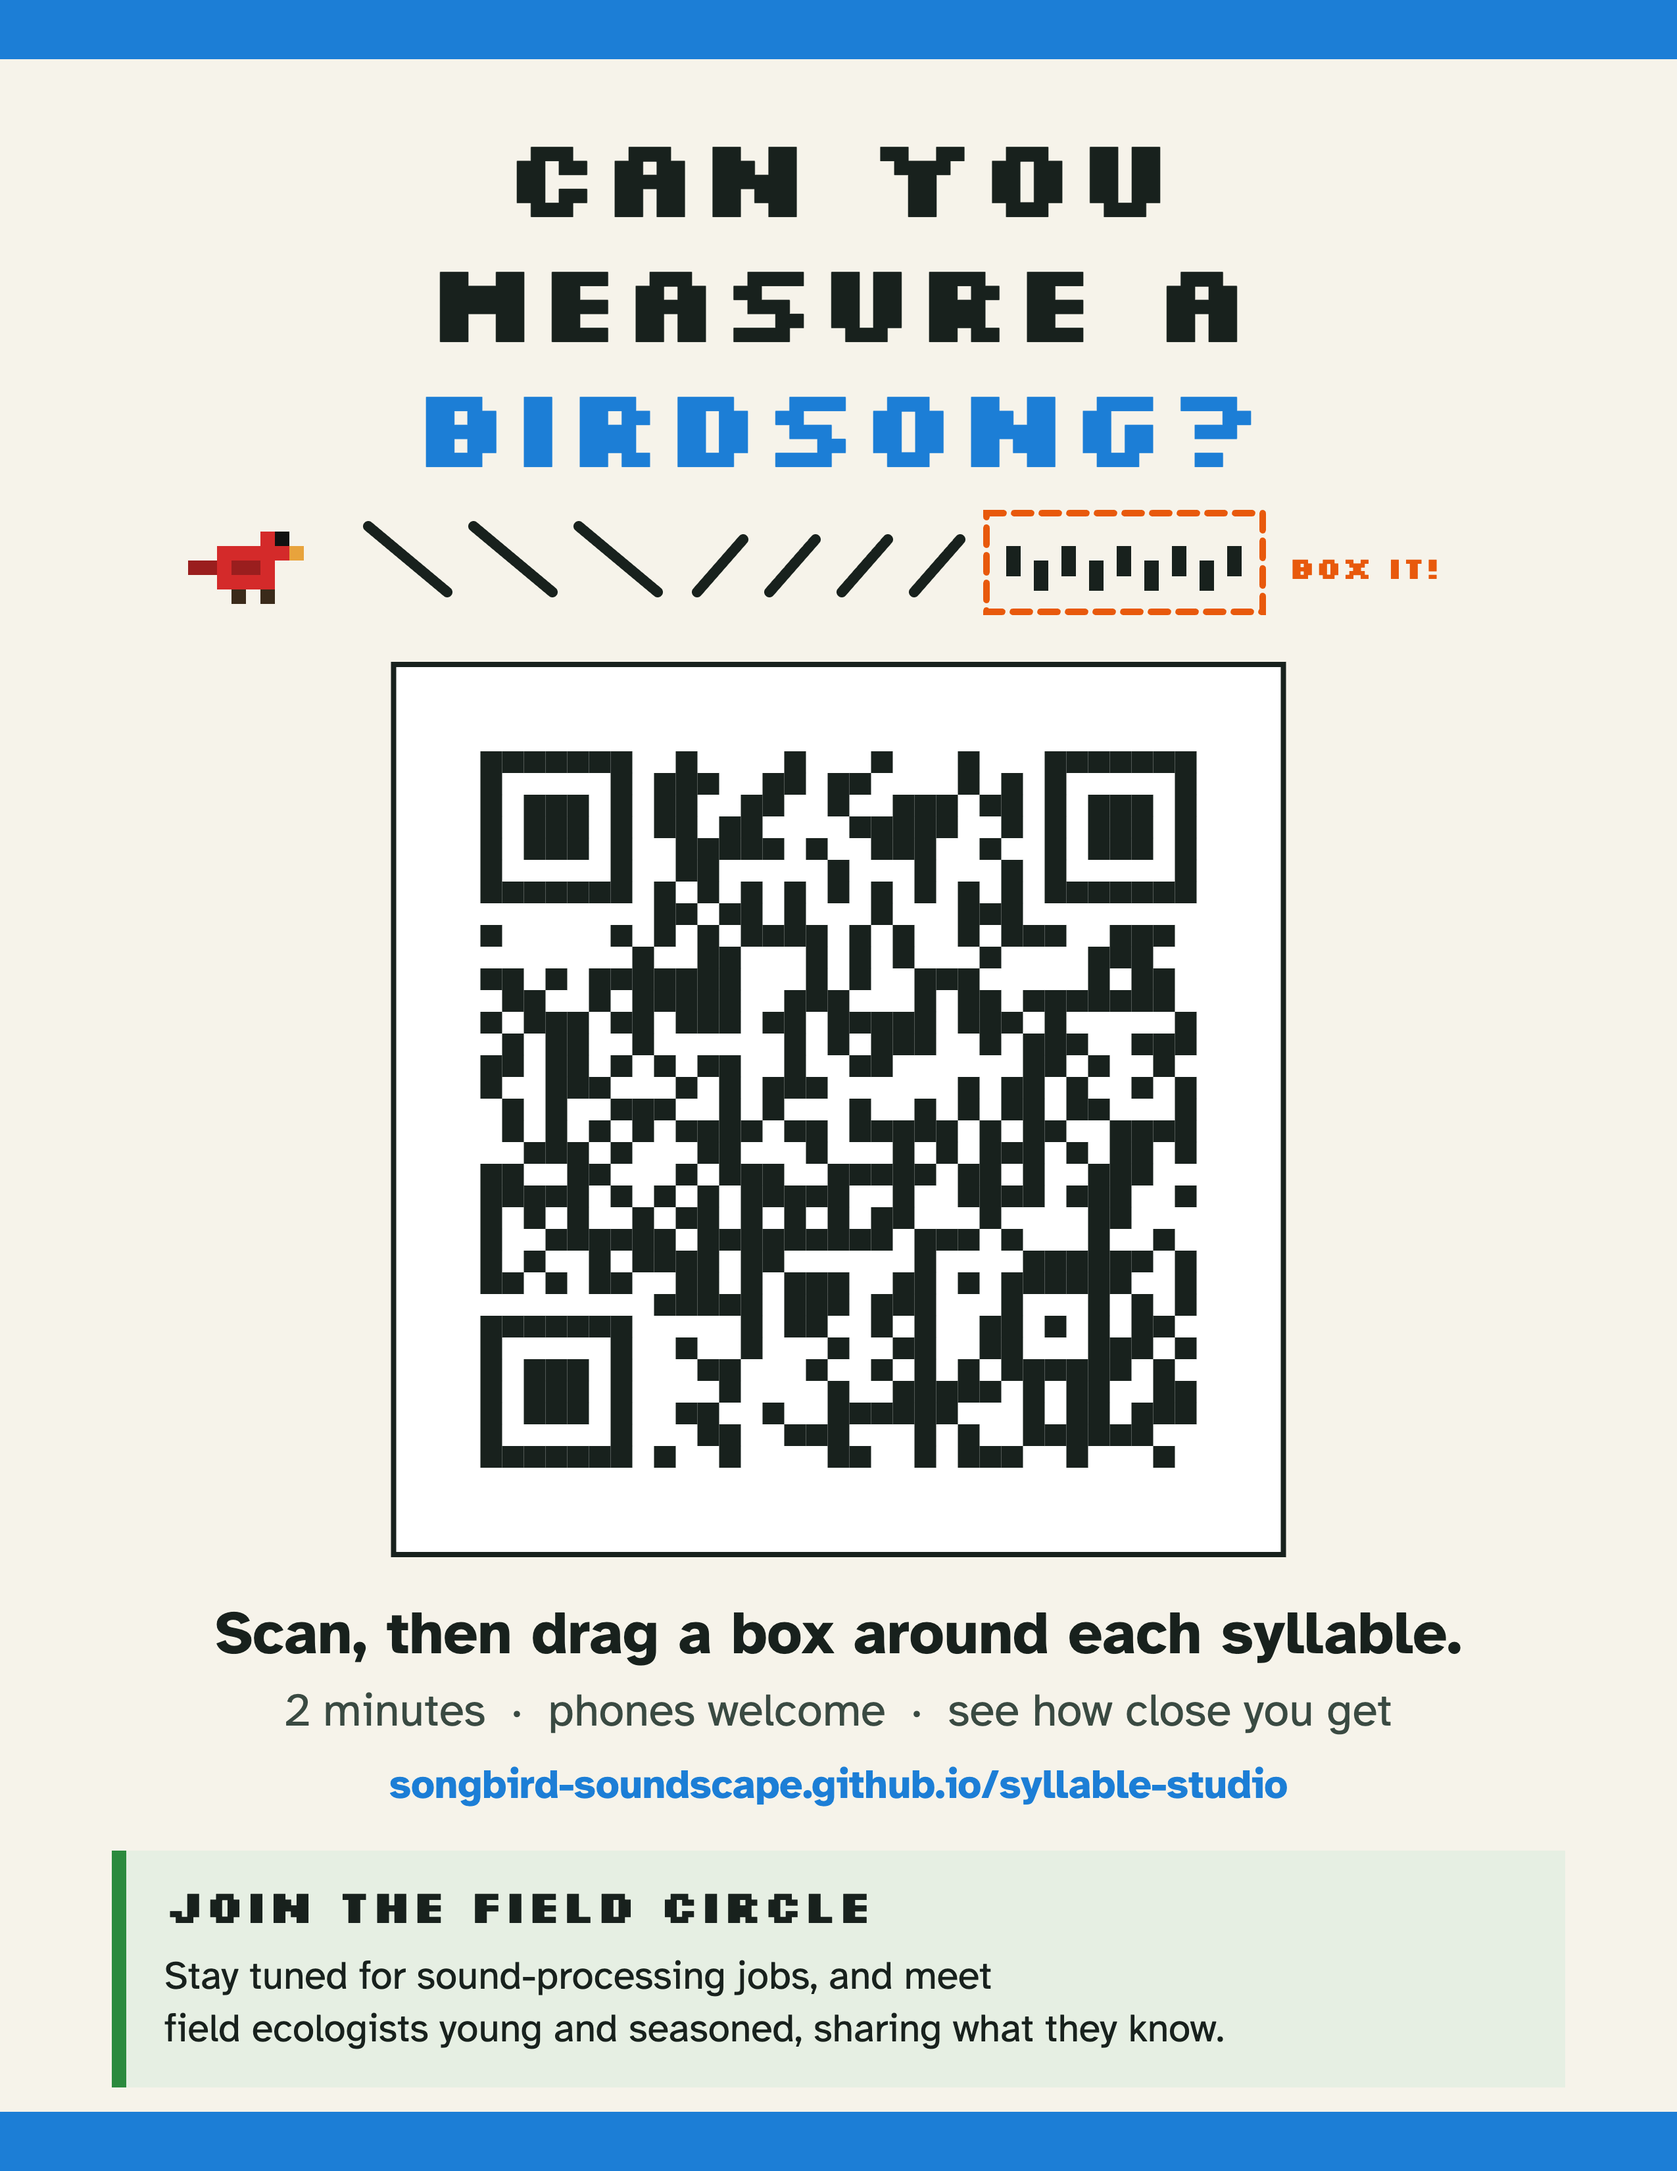
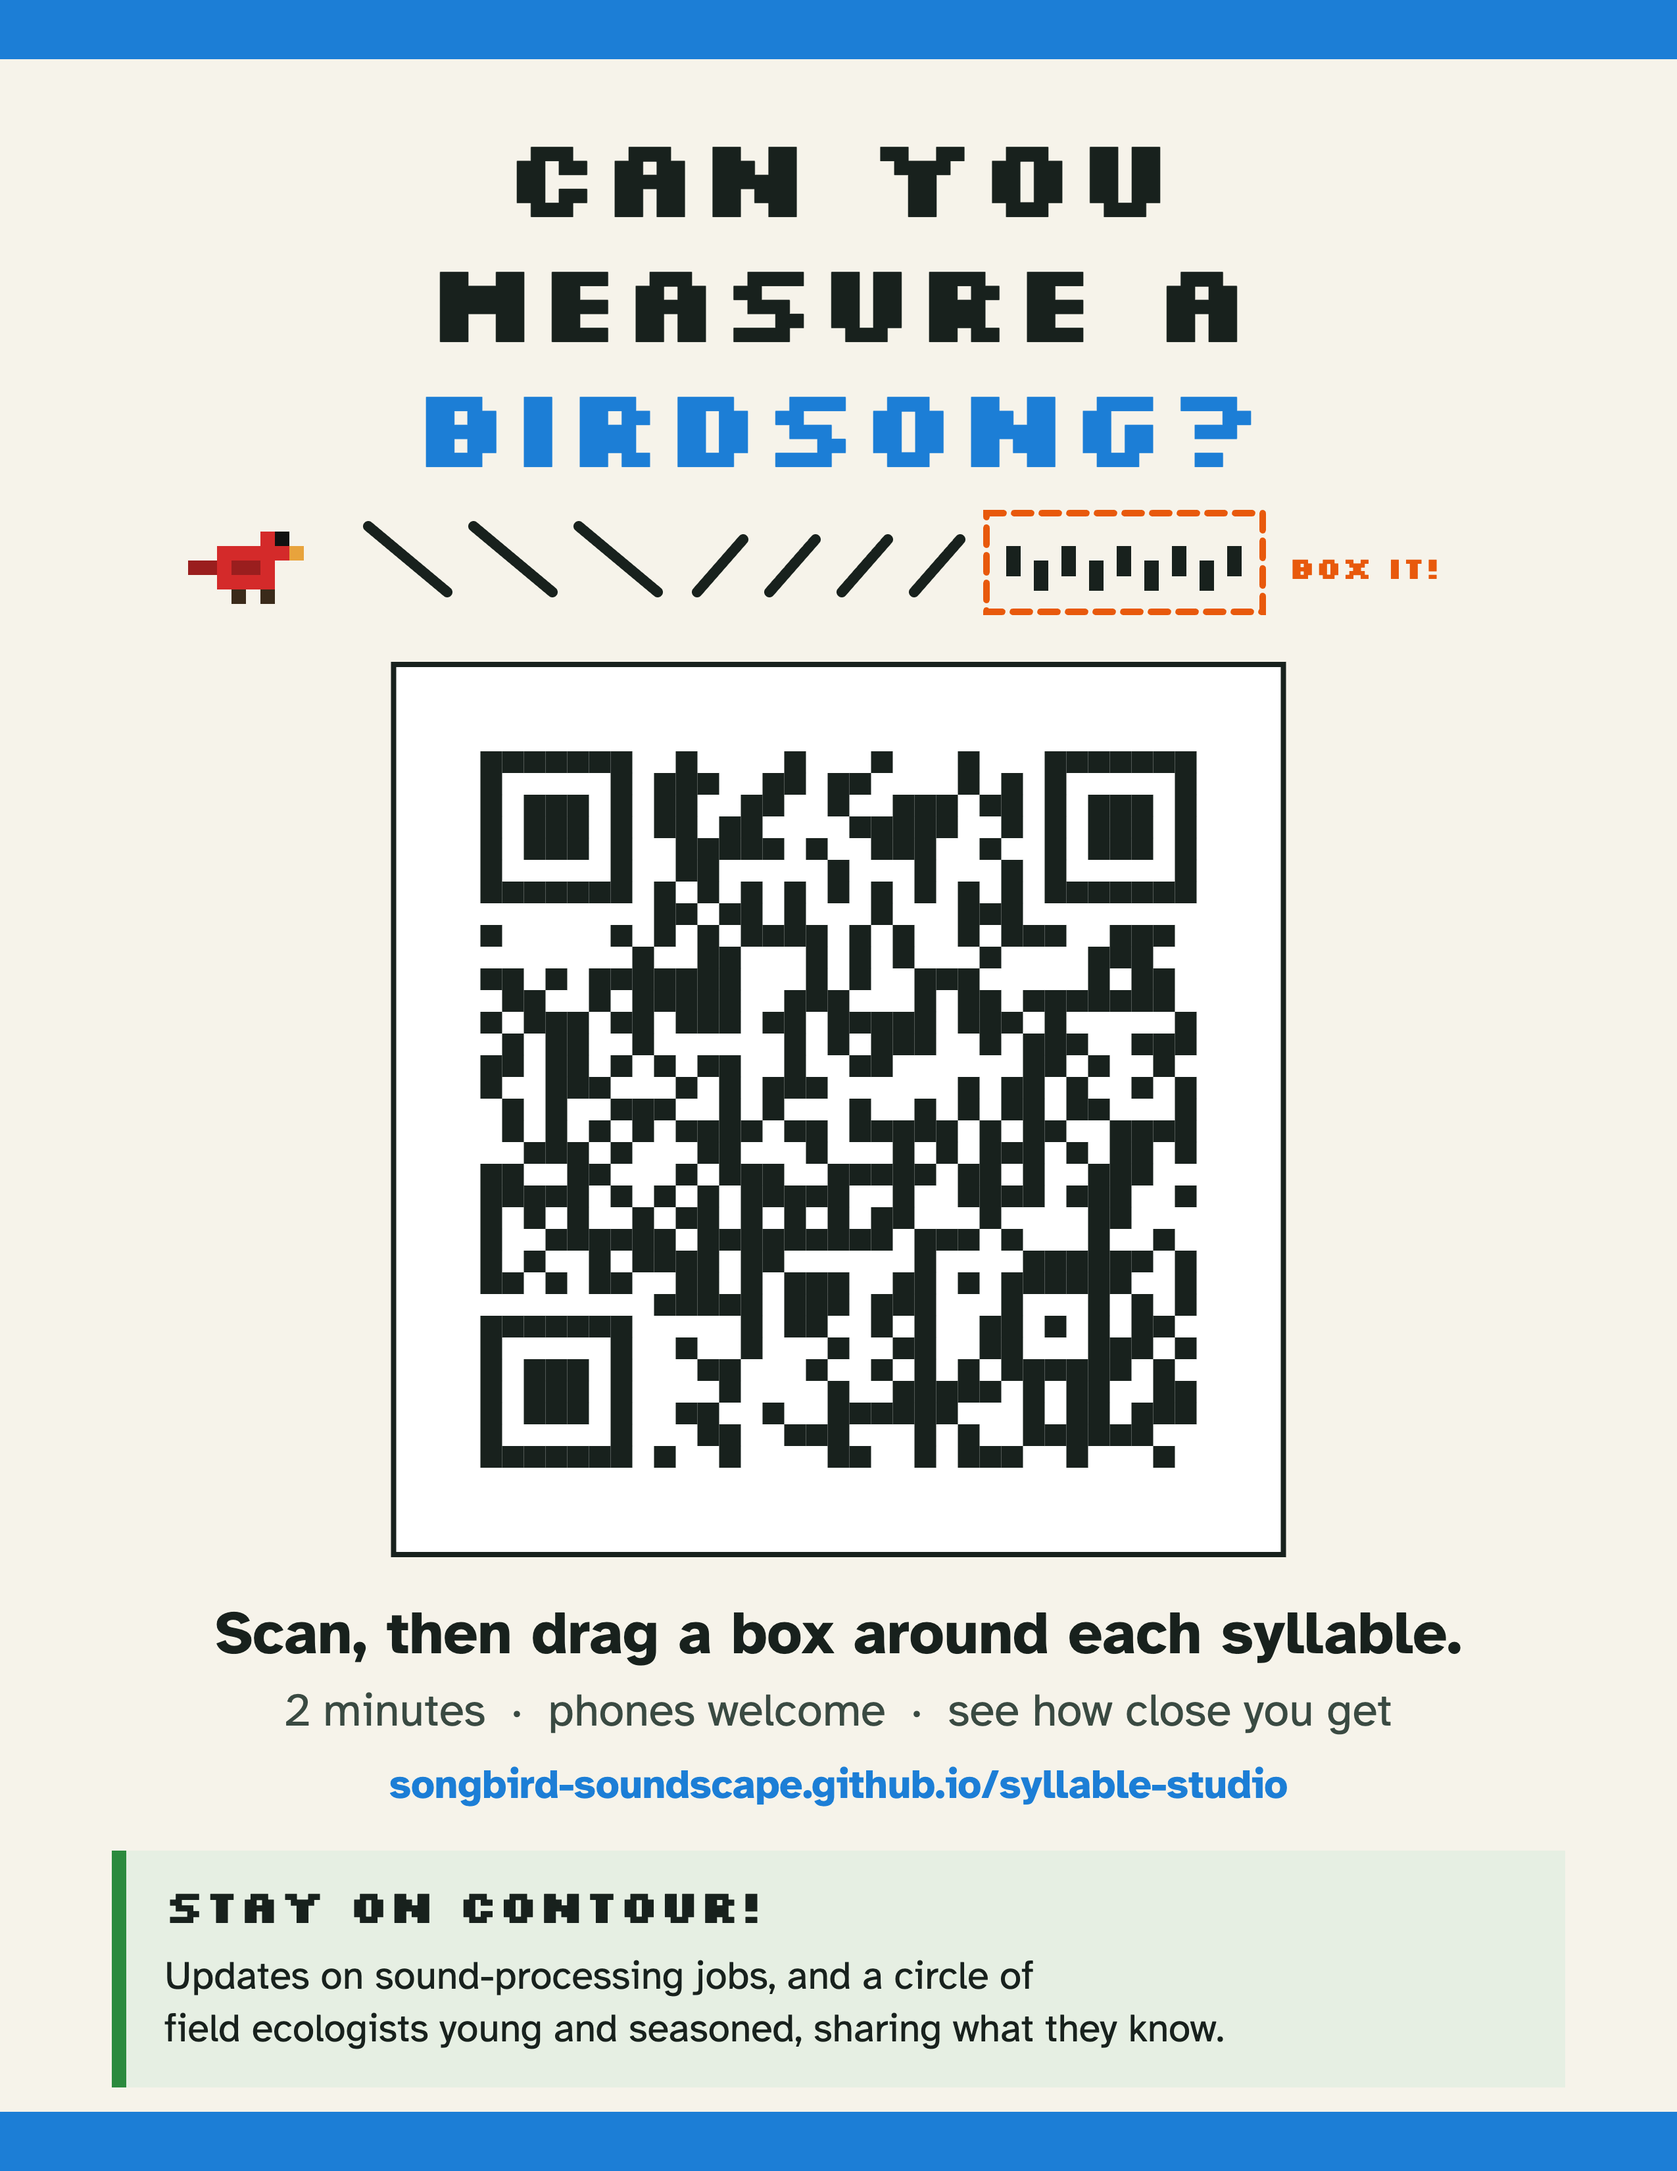
Stay on contour! tagline, and the quarter-sheet handout cards

Changed region(s): [[0.0929, 0.8739, 0.6196, 0.9364]]

diff --git a/cards.html b/cards.html
@@ -1,0 +1,70 @@
+<!doctype html>
+<html lang="en">
+<head>
+<meta charset="utf-8">
+<meta name="viewport" content="width=device-width, initial-scale=1">
+<title>Syllable Studio Cards</title>
+<link rel="preconnect" href="https://fonts.googleapis.com">
+<link rel="stylesheet" href="https://fonts.googleapis.com/css2?family=Silkscreen:wght@400;700&family=Atkinson+Hyperlegible:wght@400;700&display=swap">
+<style>
+:root { --bg: #e9ece6; }
+@media (prefers-color-scheme: dark) { :root:not([data-theme="light"]) { --bg: #151816; color-scheme: dark; } }
+:root[data-theme="dark"] { --bg: #151816; color-scheme: dark; }
+body { margin: 0; background: var(--bg); padding: 16px max(16px, env(safe-area-inset-left, 0px)); }
+canvas { display: block; width: min(100%, 680px); height: auto; margin: 0 auto; box-shadow: 0 2px 12px rgba(0,0,0,0.25); }
+@media print { @page { size: letter; margin: 0; } body { padding: 0; background: #fff; } canvas { width: 8.5in; height: 11in; box-shadow: none; } }
+</style>
+<script src="https://cdnjs.cloudflare.com/ajax/libs/qrcode-generator/1.4.4/qrcode.min.js"></script>
+</head>
+<body>
+<canvas id="sheet" width="2550" height="3300" role="img" aria-label="A letter sheet of four quarter-page cards (4.25 by 5.5 inches), each with a QR code to Syllable Studio"></canvas>
+<script>
+(() => {
+const URL_ = 'https://songbird-soundscape.github.io/syllable-studio/';
+const c = document.getElementById('sheet'), g = c.getContext('2d'), W = c.width, H = c.height, DPI = 300;
+const CW = 4.25 * DPI, CH = 5.5 * DPI, COLS = 2, ROWS = 2, X0 = 0, Y0 = 0;
+const qr = qrcode(0, 'M'); qr.addData(URL_); qr.make(); const n = qr.getModuleCount();
+function card(x, y) {
+  const P = 0.3 * DPI, cx = x + CW / 2;                     // keep everything 0.3 in from the cut edges
+  g.fillStyle = '#f6f3ea'; g.fillRect(x, y, CW, CH);
+  g.fillStyle = '#1c7ed6'; g.fillRect(x + P, y + P, CW - 2 * P, 22);
+  g.textAlign = 'center'; g.textBaseline = 'alphabetic';
+  g.fillStyle = '#18211d'; g.font = '700 76px Silkscreen'; g.fillText('CAN YOU', cx, y + P + 130); g.fillText('MEASURE A', cx, y + P + 215);
+  g.fillStyle = '#1c7ed6'; g.fillText('BIRDSONG?', cx, y + P + 300);
+  // the little cardinal, its song, and a box around the trill
+  const s = 11, bx = x + P + 40, by = y + P + 360;
+  g.fillStyle = '#9a1e1e'; g.fillRect(bx - 2 * s, by + s, 2 * s, s); g.fillStyle = '#d42a2a'; g.fillRect(bx, by, 4 * s, 3 * s); g.fillRect(bx + 3 * s, by - s, 2 * s, 2 * s);
+  g.fillStyle = '#111'; g.fillRect(bx + 4 * s, by - s, s, s); g.fillStyle = '#e8a33c'; g.fillRect(bx + 5 * s, by, s, s);
+  g.strokeStyle = '#18211d'; g.lineWidth = 9; g.lineCap = 'round';
+  [0, 1, 2].forEach(k => { const sx = bx + 120 + k * 75; g.beginPath(); g.moveTo(sx, by - 15); g.lineTo(sx + 45, by + 40); g.stroke(); });
+  const tx = bx + 360; g.strokeStyle = '#e8590c'; g.lineWidth = 6; g.setLineDash([16, 10]); g.strokeRect(tx, by - 30, 230, 90); g.setLineDash([]);
+  g.strokeStyle = '#18211d'; g.lineWidth = 9; for (let k = 0; k < 6; k++) { g.beginPath(); g.moveTo(tx + 25 + k * 36, by - 10 + (k % 2) * 14); g.lineTo(tx + 25 + k * 36, by + 40); g.stroke(); }
+  g.fillStyle = '#e8590c'; g.font = '700 30px Silkscreen'; g.textAlign = 'left'; g.fillText('BOX IT!', tx + 245, by + 28); g.textAlign = 'center';
+  // the QR, big
+  const cell = Math.floor(640 / (n + 6)), qs = cell * (n + 6), qx = Math.round(cx - qs / 2), qy = Math.round(y + P + 450);
+  g.fillStyle = '#ffffff'; g.fillRect(qx, qy, qs, qs); g.strokeStyle = '#18211d'; g.lineWidth = 5; g.strokeRect(qx, qy, qs, qs);
+  g.fillStyle = '#18211d'; for (let r = 0; r < n; r++) for (let k = 0; k < n; k++) if (qr.isDark(r, k)) g.fillRect(qx + (k + 3) * cell, qy + (r + 3) * cell, cell, cell);
+  const b = qy + qs;
+  g.fillStyle = '#18211d'; g.font = '700 46px "Atkinson Hyperlegible", sans-serif'; g.fillText('Scan, then box each syllable.', cx, b + 75);
+  g.font = '400 36px "Atkinson Hyperlegible", sans-serif'; g.fillStyle = '#3a4a42'; g.fillText('2 minutes · phones welcome', cx, b + 125);
+  g.fillStyle = '#1c7ed6'; g.font = '700 31px "Atkinson Hyperlegible", sans-serif'; g.fillText('songbird-soundscape.github.io/syllable-studio', cx, b + 178);
+  const jy = b + 215, jh = y + CH - P - jy;
+  g.fillStyle = '#e6efe3'; g.fillRect(x + P, jy, CW - 2 * P, jh); g.fillStyle = '#2b8a3e'; g.fillRect(x + P, jy, 12, jh);
+  g.textAlign = 'left'; g.fillStyle = '#18211d'; g.font = '700 34px Silkscreen'; g.fillText('STAY ON CONTOUR!', x + P + 40, jy + 55);
+  g.font = '400 30px "Atkinson Hyperlegible", sans-serif'; g.fillText('Updates on sound-processing jobs, and', x + P + 40, jy + 102); g.fillText('field ecologists young and seasoned.', x + P + 40, jy + 142);
+  g.textAlign = 'center';
+}
+function draw() {
+  g.fillStyle = '#ffffff'; g.fillRect(0, 0, W, H);
+  for (let r = 0; r < ROWS; r++) for (let k = 0; k < COLS; k++) card(X0 + k * CW, Y0 + r * CH);
+  // cut lines: the centre of the page, both ways
+  g.strokeStyle = '#bbbbbb'; g.lineWidth = 3; g.setLineDash([10, 12]);
+  g.beginPath(); g.moveTo(W / 2, 0); g.lineTo(W / 2, H); g.moveTo(0, H / 2); g.lineTo(W, H / 2); g.stroke();
+  g.setLineDash([]);
+}
+document.fonts.ready.then(draw); draw();
+window.sheetPNG = () => c.toDataURL('image/png');
+})();
+</script>
+</body>
+</html>

diff --git a/sign.html b/sign.html
@@ -48,8 +48,8 @@ function draw() {
   g.font = '400 70px "Atkinson Hyperlegible", sans-serif'; g.fillStyle = '#3a4a42'; g.fillText('2 minutes  ·  phones welcome  ·  see how close you get', W / 2, below + 260);
   g.font = '700 62px "Atkinson Hyperlegible", sans-serif'; g.fillStyle = '#1c7ed6'; g.fillText('songbird-soundscape.github.io/syllable-studio', W / 2, below + 370);
   g.fillStyle = '#e6efe3'; g.fillRect(170, below + 450, W - 340, 360); g.fillStyle = '#2b8a3e'; g.fillRect(170, below + 450, 22, 360);
-  g.textAlign = 'left'; g.fillStyle = '#18211d'; g.font = '700 70px Silkscreen'; g.fillText('JOIN THE FIELD CIRCLE', 250, below + 560);
-  g.font = '400 60px "Atkinson Hyperlegible", sans-serif'; g.fillText('Stay tuned for sound-processing jobs, and meet', 250, below + 660); g.fillText('field ecologists young and seasoned, sharing what they know.', 250, below + 740);
+  g.textAlign = 'left'; g.fillStyle = '#18211d'; g.font = '700 70px Silkscreen'; g.fillText('STAY ON CONTOUR!', 250, below + 560);
+  g.font = '400 60px "Atkinson Hyperlegible", sans-serif'; g.fillText('Updates on sound-processing jobs, and a circle of', 250, below + 660); g.fillText('field ecologists young and seasoned, sharing what they know.', 250, below + 740);
   g.textAlign = 'center';
 }
 document.fonts.ready.then(draw); draw();

diff --git a/index.html b/index.html
@@ -87,8 +87,8 @@ tr.sel td { background: var(--chip); }
 
   <section class="bench join" aria-labelledby="hJoin">
     <h2 id="hJoin">Join the field circle</h2>
-    <p>Liked it? Stay tuned. The lab will post sound-processing jobs that need careful ears and hands: measuring songs, sorting recordings, checking each other's boxes. And we're starting a community where young and seasoned field ecologists meet, trade what they know, and go out listening together.</p>
-    <div class="btns"><button class="go" id="joinBtn">Stay tuned and join</button><span class="eyebrow" id="joinMsg"></span></div>
+    <p>Liked it? <b>Stay on contour!</b> Get updates when the lab posts sound-processing jobs that need careful ears and hands: measuring songs, sorting recordings, checking each other's boxes. And we're starting a community where young and seasoned field ecologists meet, trade what they know, and go out listening together.</p>
+    <div class="btns"><button class="go" id="joinBtn">Stay on contour! Get updates</button><span class="eyebrow" id="joinMsg"></span></div>
   </section>
 
   <section class="bench" aria-labelledby="hHow">
